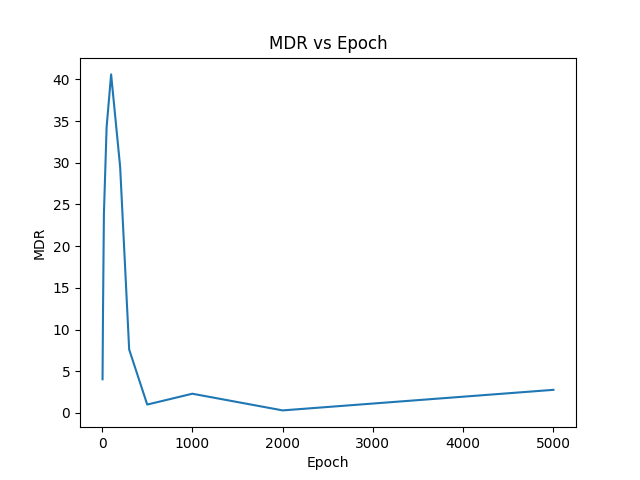
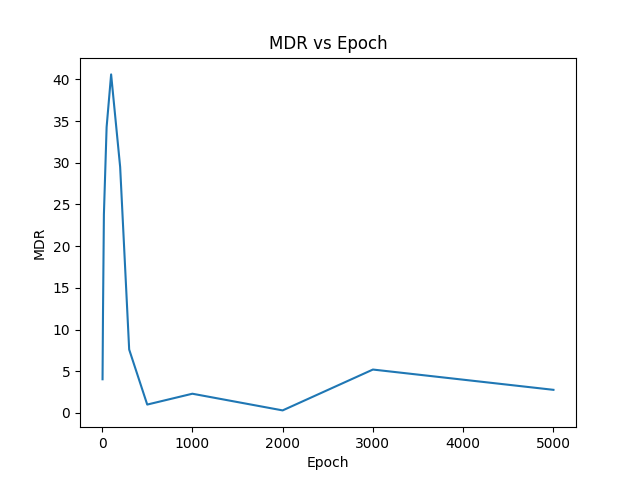
inlcude results for 3000 epochs

diff --git a/develop/train_urfd.py b/develop/train_urfd.py
@@ -54,7 +54,7 @@ batch_norm = True
 learning_rate = 0.0001
 mini_batch_size = 64
 weight_0 = 1
-epochs = 2000
+epochs = 3000
 use_validation = True
 # After the training stops, use train+validation to train for 1 epoch
 use_val_for_training = True
